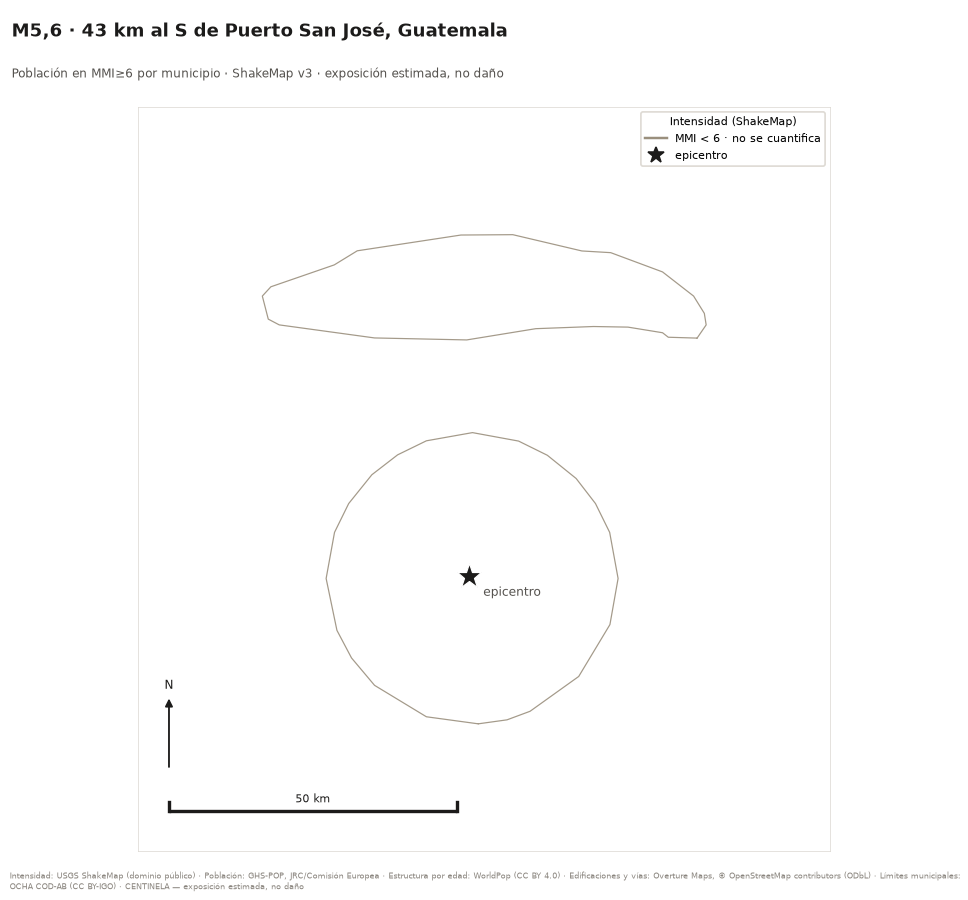
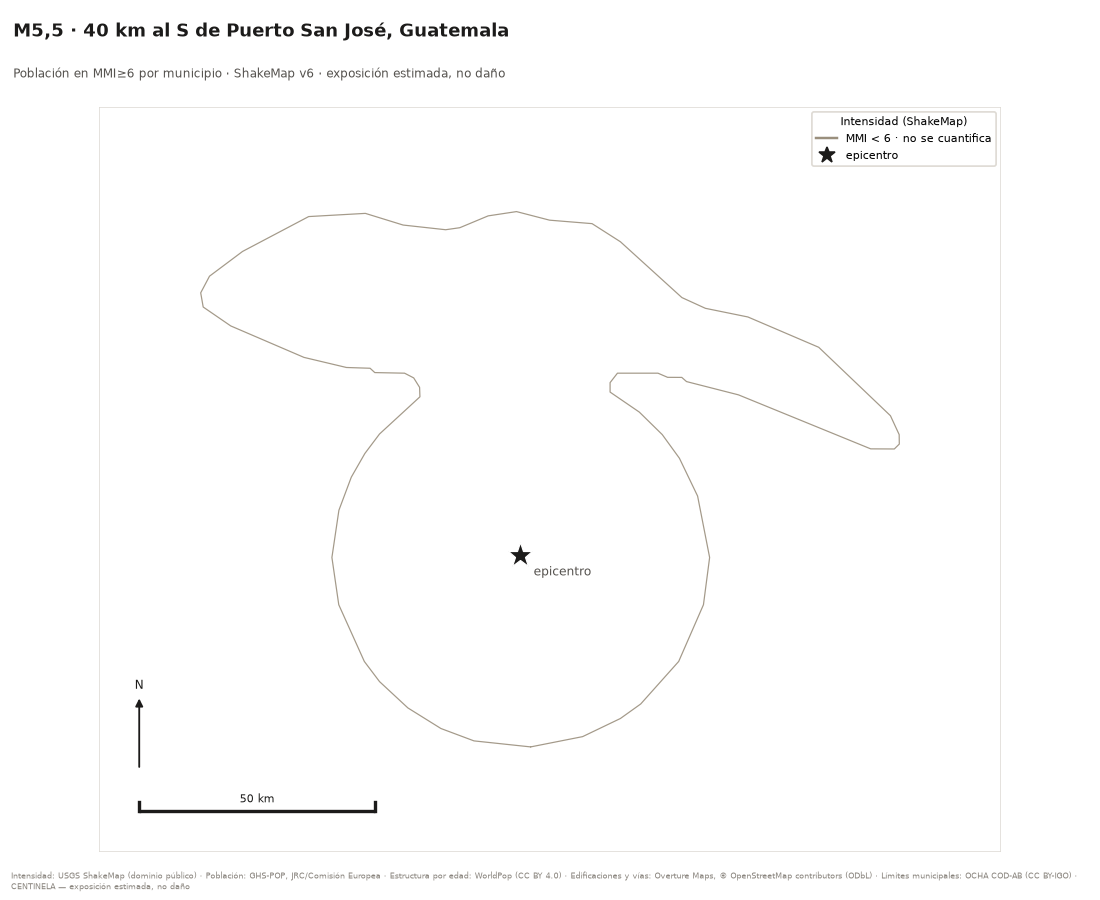
P3: reporte de us7000txb8

diff --git a/reports/us7000txb8/report.md b/reports/us7000txb8/report.md
@@ -1,6 +1,6 @@
-# Exposición sísmica: M5,6 · 43 km al S de Puerto San José, Guatemala
+# Exposición sísmica: M5,5 · 40 km al S de Puerto San José, Guatemala
 
-**Evento USGS:** `us7000txb8` · **Origen:** 2026-11-10T14:54:17Z UTC · **Profundidad:** 35,0 km
+**Evento USGS:** `us7000txb8` · **Origen:** 2026-11-10T14:54:17Z UTC · **Profundidad:** 59,7 km
 
 ## Exposición estimada
 
@@ -25,8 +25,8 @@ Ninguna banda de intensidad alcanza población, así que la única cifra que dim
 | Radio desde el epicentro | Población |
 |---|---:|
 | 25 km | 0 |
-| 50 km | 72 mil |
-| 100 km | 1 millón |
+| 50 km | 78 mil |
+| 100 km | 1,2 millones |
 
 Los radios **no son bandas de intensidad**. Aquí no hay modelo de sacudida, solo distancia: un sismo superficial y uno profundo de la misma magnitud tienen el mismo circulo y no se parecen en nada. La cifra sirve para dimensionar, no para priorizar.
 
@@ -44,10 +44,15 @@ Las dos cifras **no se tabulan igual** y no se pueden leer una contra otra: PAGE
 
 Discrepancia entre GHS-POP y WorldPop: **no se pudo medir**. Ninguna celda dentro de las bandas publicadas tiene población de WorldPop con la que contrastar.
 
-- El epicentro está a 41 km de la población más cercana del país con la que se comparó. La sacudida no alcanzó territorio habitado.
+- El epicentro está a 39 km de la población más cercana del país con la que se comparó. La sacudida no alcanzó territorio habitado.
 
 ## Cambios frente a la versión anterior
 
+- ShakeMap: v3 (us) → v6 (us)
+- Magnitud: M5,6 → M5,5
+- Profundidad: 35 → 60 km
+- Epicentro: reubicado 4 km
+- Ninguna cifra publicada cambia frente a la versión anterior.
 - ShakeMap: v2 (us) → v3 (us)
 - Ninguna cifra publicada cambia frente a la versión anterior.
 - ShakeMap: v1 (us) → v2 (us)
@@ -62,10 +67,10 @@ Discrepancia entre GHS-POP y WorldPop: **no se pudo medir**. Ninguna celda dentr
 
 ## Procedencia
 
-- ShakeMap consumido: **v3** de `us`
+- ShakeMap consumido: **v6** de `us`
 - Ground Failure consumido: **ninguno** (no publicado aún)
 - Manifiesto de exposición: [`gtm-v0.5`](https://github.com/sforero77/CENTINELA/blob/main/data/manifests/GTM.yaml)
-- Pipeline: `0.1.0` · Generado: 2026-11-10T17:11:06Z
+- Pipeline: `0.1.0` · Generado: 2026-11-12T12:56:05Z
 
 ## Advertencias
 
